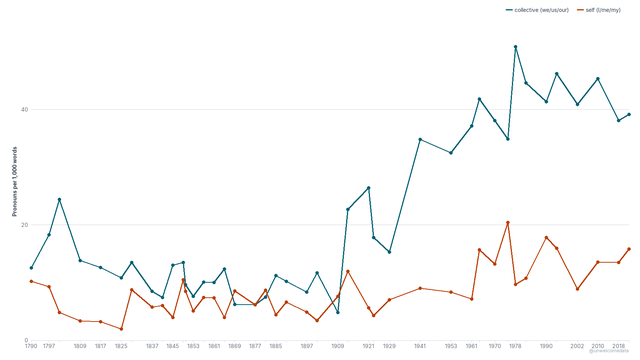
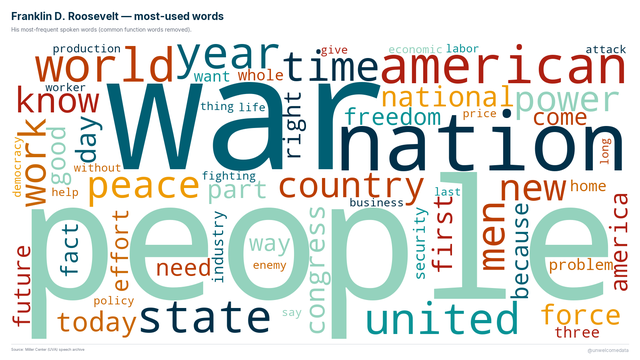
feat: swap presidential-speeches card thumbnail to FDR word cloud
Breaks up the line-chart run (speeches/readability/unemployment were three
line charts in a row). Updates the card alt text to match.

diff --git a/index.html b/index.html
@@ -395,7 +395,7 @@
           </a>
 
           <a class="card" href="https://unwelcomedata.github.io/presidential-speeches/">
-            <img class="card-thumb" src="thumbs/presidential-speeches.png" alt="A two-line time-series of U.S. State of the Union speeches showing collective pronouns (we/us/our) climbing steeply over the 20th century while self pronouns (I/me/my) stay comparatively flat." loading="lazy">
+            <img class="card-thumb" src="thumbs/presidential-speeches.png" alt="A word cloud of Franklin D. Roosevelt's most-used spoken words, with people, war, nation, and american appearing largest." loading="lazy">
             <div class="card-body">
               <span class="tier serious">Serious</span>
               <h3>How Presidents Talk</h3>
